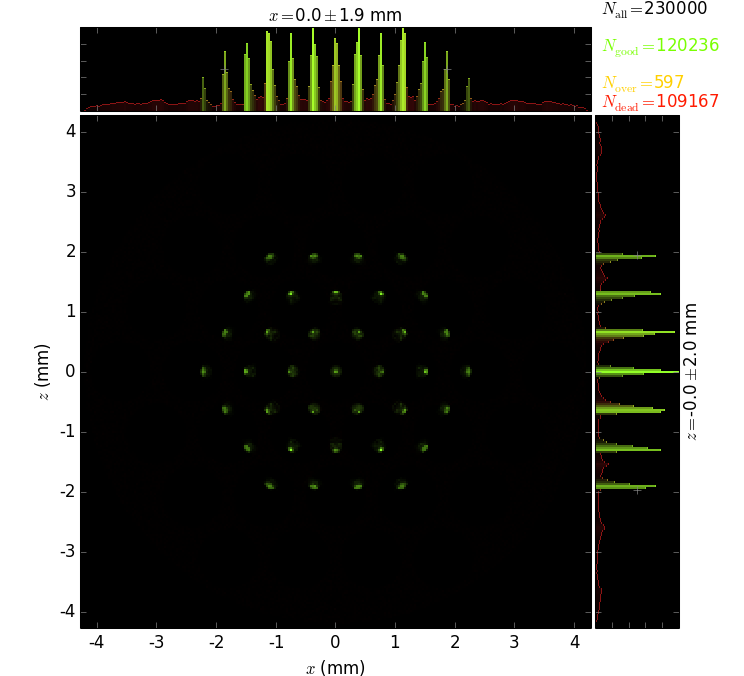
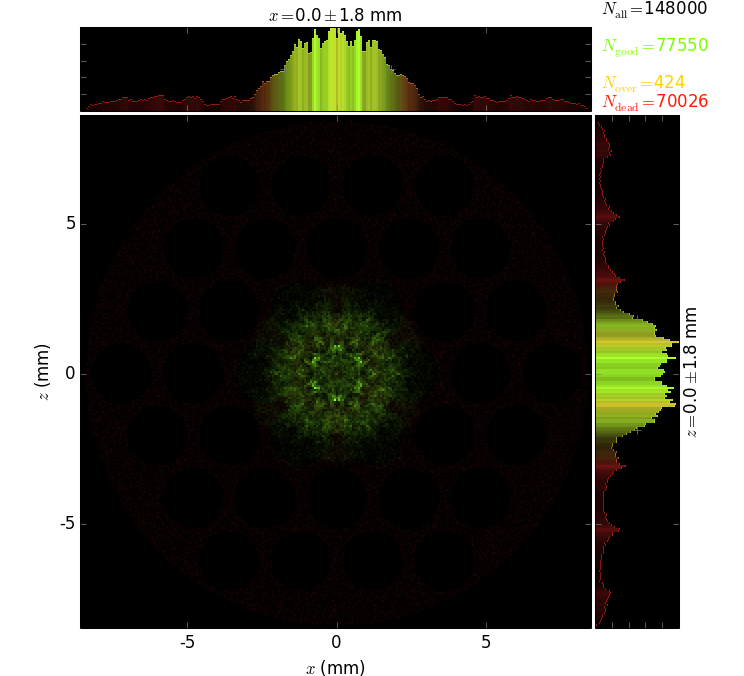
screen -2f, divergence observed, weird background of magnified lensshape

diff --git a/myCapillary0A.py b/myCapillary0A.py
@@ -126,7 +126,7 @@ def build_beamline(nrays=1000):
 #    beamLine.sources[0].dxprime = (np.arcsin((2*n-3) * (r0+wall) / rSample),
 #        np.arcsin((2*n+1) * (r0+wall) / rSample))
 #    beamLine.sources[0].dxprime = 0, np.arcsin(r0 / rSample)
-    beamLine.fsm2 = rsc.Screen(beamLine, 'DiamondFSM2', (0, f, 0))
+    beamLine.fsm2 = rsc.Screen(beamLine, 'DiamondFSM2', (0, f*2, 0))
     return beamLine
 
 def run_process(beamLine, shineOnly1stSource=False):
